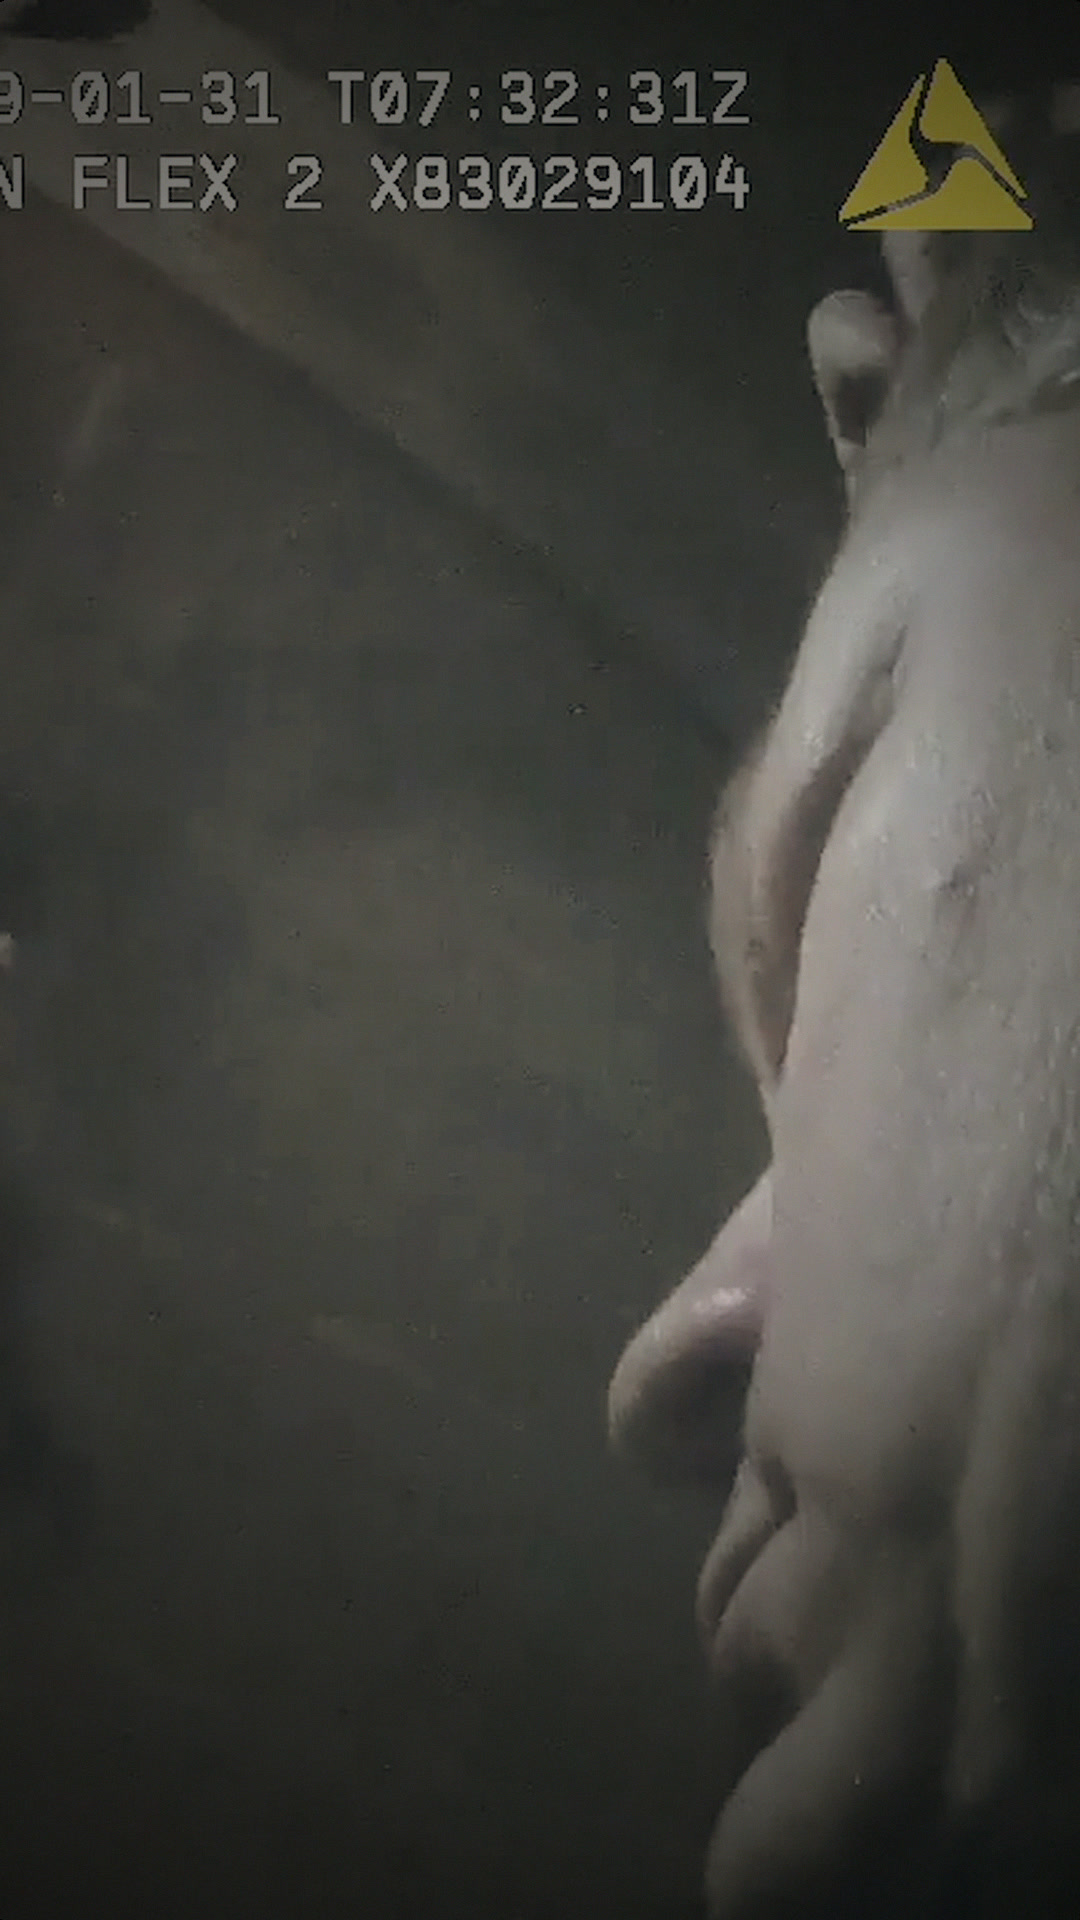
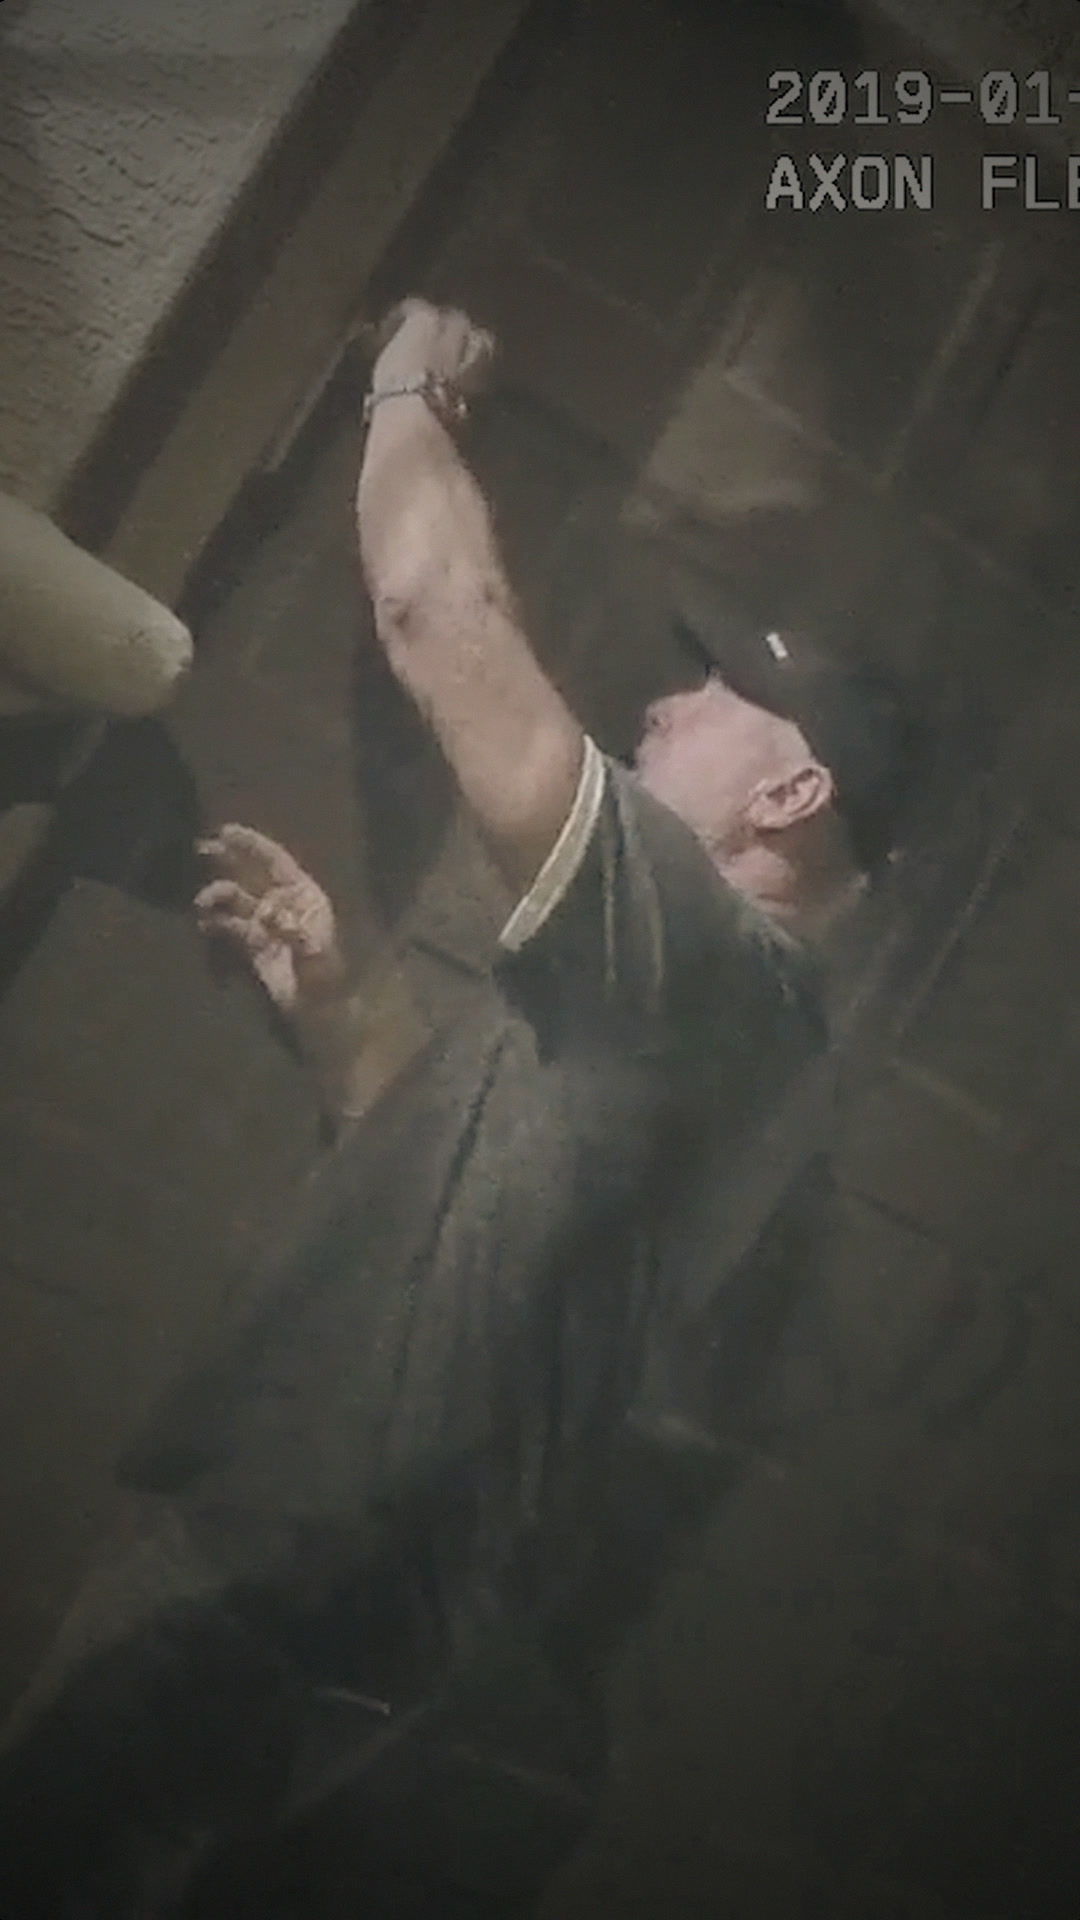
Episode 1: re-aim night bodycam crop, lift mix to reference loudness
Claude-Session: https://claude.ai/code/session_012oYdN2w13XS3aJvvwALdLV

diff --git a/ep1/index.html b/ep1/index.html
@@ -143,7 +143,7 @@ html, body { width: 1080px; height: 1920px; overflow: hidden; background: var(--
 <div id="s19-frame" class="clip ovl" data-start="73.40" data-duration="3.90" data-track-index="5"><div class="inset-frame"></div></div>
 <div id="s19-tag" class="clip ovl" data-start="73.65" data-duration="3.65" data-track-index="6"><div class="srctag"><span class="srctag-box">POLICE INTERVIEW</span><span class="srctag-sub">CHANDLER POLICE · 2019</span></div></div>
 <div id="s20-w" class="shotw">
-<video id="s20" class="clip media" src="assets/video/real_charles_night_c.mp4" data-start="77.30" data-duration="3.60" data-media-start="2.0" data-playback-rate="1.0" data-track-index="2"  muted playsinline></video>
+<video id="s20" class="clip media" src="assets/video/real_charles_night_c.mp4" data-start="77.30" data-duration="3.60" data-media-start="0.8" data-playback-rate="1.0" data-track-index="2"  muted playsinline></video>
 </div>
 <div id="s20-tag" class="clip ovl" data-start="77.55" data-duration="3.35" data-track-index="6"><div class="srctag"><span class="srctag-box">BODYCAM</span><span class="srctag-sub">CHANDLER POLICE · JAN 31, 2019</span></div></div>
 <div id="s21-w" class="shotw">
@@ -234,43 +234,43 @@ html, body { width: 1080px; height: 1920px; overflow: hidden; background: var(--
   </div>
 </div>
 <audio id="vo" src="assets/audio/vo.wav" data-start="0" data-duration="154.8" data-track-index="20" data-volume="1"></audio>
-<audio id="music" src="assets/audio/music.wav" data-start="0" data-duration="155.00" data-track-index="21" data-volume="1" data-automation='{"version":1,"lanes":[{"target":"volume","points":[{"t":0.0,"v":0.0},{"t":0.6,"v":0.8},{"t":14.0,"v":0.8},{"t":17.5,"v":0.11},{"t":131.0,"v":0.11},{"t":131.4,"v":0.17},{"t":133.9,"v":0.17},{"t":134.3,"v":0.11},{"t":148.4,"v":0.11},{"t":149.2,"v":0.2},{"t":150.4,"v":0.2},{"t":150.5,"v":0.13},{"t":154.7,"v":0.0}]}]}'></audio>
-<audio id="x_title" src="assets/sfx/impact-bass-1.mp3" data-start="0.250" data-duration="2.116" data-track-index="30" data-volume="0.188"></audio>
-<audio id="x_wh1" src="assets/sfx/whoosh-short.mp3" data-start="4.390" data-duration="0.575" data-track-index="31" data-volume="0.324"></audio>
-<audio id="x_turn" src="assets/sfx/impact-bass-2.mp3" data-start="30.120" data-duration="2.592" data-track-index="32" data-volume="0.2"></audio>
-<audio id="x_lori" src="assets/sfx/impact-bass-1.mp3" data-start="44.600" data-duration="2.116" data-track-index="33" data-volume="0.133"></audio>
-<audio id="x_paper1" src="assets/sfx/paper.wav" data-start="48.850" data-duration="0.900" data-track-index="34" data-volume="0.275"></audio>
-<audio id="x_mk1" src="assets/sfx/marker.wav" data-start="50.350" data-duration="0.550" data-track-index="35" data-volume="0.141"></audio>
-<audio id="x_mk2" src="assets/sfx/marker.wav" data-start="53.750" data-duration="0.550" data-track-index="36" data-volume="0.141"></audio>
-<audio id="x_mk3" src="assets/sfx/marker.wav" data-start="57.850" data-duration="0.550" data-track-index="37" data-volume="0.141"></audio>
-<audio id="x_end" src="assets/sfx/whoosh-cinematic.mp3" data-start="57.190" data-duration="5.544" data-track-index="38" data-volume="0.359"></audio>
-<audio id="x_wh2" src="assets/sfx/whoosh-short.mp3" data-start="64.740" data-duration="0.575" data-track-index="39" data-volume="0.288"></audio>
-<audio id="x_paper2" src="assets/sfx/paper.wav" data-start="67.750" data-duration="0.900" data-track-index="40" data-volume="0.245"></audio>
-<audio id="x_mk4" src="assets/sfx/marker.wav" data-start="68.700" data-duration="0.550" data-track-index="41" data-volume="0.141"></audio>
-<audio id="x_mk5" src="assets/sfx/marker.wav" data-start="71.050" data-duration="0.550" data-track-index="42" data-volume="0.141"></audio>
-<audio id="x_swell" src="assets/sfx/whoosh-cinematic.mp3" data-start="74.390" data-duration="5.544" data-track-index="43" data-volume="0.32"></audio>
-<audio id="x_notch" src="assets/sfx/impact-bass-1.mp3" data-start="77.200" data-duration="2.116" data-track-index="44" data-volume="0.188"></audio>
-<audio id="x_glitch" src="assets/sfx/glitch-3.mp3" data-start="84.250" data-duration="3.096" data-track-index="45" data-volume="0.519"></audio>
-<audio id="x_hb1" src="assets/sfx/heartbeat.wav" data-start="85.100" data-duration="1.200" data-track-index="46" data-volume="0.495"></audio>
-<audio id="x_hb2" src="assets/sfx/heartbeat.wav" data-start="86.300" data-duration="1.200" data-track-index="47" data-volume="0.442"></audio>
-<audio id="x_face" src="assets/sfx/impact-bass-2.mp3" data-start="87.230" data-duration="2.592" data-track-index="48" data-volume="0.106"></audio>
-<audio id="x_paper3" src="assets/sfx/paper.wav" data-start="90.300" data-duration="0.900" data-track-index="49" data-volume="0.245"></audio>
-<audio id="x_mk6" src="assets/sfx/marker.wav" data-start="92.350" data-duration="0.550" data-track-index="50" data-volume="0.141"></audio>
-<audio id="x_mk7" src="assets/sfx/marker.wav" data-start="93.100" data-duration="0.550" data-track-index="51" data-volume="0.141"></audio>
-<audio id="x_wh3" src="assets/sfx/whoosh-short.mp3" data-start="94.740" data-duration="0.575" data-track-index="52" data-volume="0.288"></audio>
-<audio id="x_siren" src="assets/sfx/siren_distant.wav" data-start="111.950" data-duration="7.000" data-track-index="53" data-volume="0.076"></audio>
-<audio id="x_radio" src="assets/sfx/radio_squelch.wav" data-start="112.350" data-duration="0.600" data-track-index="54" data-volume="0.155"></audio>
-<audio id="x_divorce" src="assets/sfx/impact-bass-1.mp3" data-start="116.620" data-duration="2.116" data-track-index="55" data-volume="0.133"></audio>
-<audio id="x_paper4" src="assets/sfx/paper.wav" data-start="119.450" data-duration="0.900" data-track-index="56" data-volume="0.245"></audio>
-<audio id="x_pen" src="assets/sfx/pen_writing.wav" data-start="122.700" data-duration="3.400" data-track-index="57" data-volume="0.188"></audio>
-<audio id="x_kill" src="assets/sfx/impact-bass-2.mp3" data-start="124.510" data-duration="2.592" data-track-index="58" data-volume="0.2"></audio>
-<audio id="x_mk8" src="assets/sfx/marker.wav" data-start="126.600" data-duration="0.550" data-track-index="59" data-volume="0.141"></audio>
-<audio id="x_mk9" src="assets/sfx/marker.wav" data-start="128.500" data-duration="0.550" data-track-index="60" data-volume="0.141"></audio>
-<audio id="x_hb3" src="assets/sfx/heartbeat.wav" data-start="132.150" data-duration="1.200" data-track-index="61" data-volume="0.556"></audio>
-<audio id="x_hb4" src="assets/sfx/heartbeat.wav" data-start="133.350" data-duration="1.200" data-track-index="62" data-volume="0.495"></audio>
-<audio id="x_wh4" src="assets/sfx/whoosh-short.mp3" data-start="136.240" data-duration="0.575" data-track-index="63" data-volume="0.288"></audio>
-<audio id="x_black" src="assets/sfx/impact-bass-2.mp3" data-start="148.570" data-duration="2.592" data-track-index="64" data-volume="0.237"></audio>
-<audio id="x_sub" src="assets/sfx/sub_drop.wav" data-start="150.400" data-duration="3.000" data-track-index="65" data-volume="0.513"></audio>
+<audio id="music" src="assets/audio/music.wav" data-start="0" data-duration="155.00" data-track-index="21" data-volume="1" data-automation='{"version":1,"lanes":[{"target":"volume","points":[{"t":0.0,"v":0.0},{"t":0.6,"v":1.0},{"t":14.0,"v":1.0},{"t":17.5,"v":0.139},{"t":131.0,"v":0.139},{"t":131.4,"v":0.214},{"t":133.9,"v":0.214},{"t":134.3,"v":0.139},{"t":148.4,"v":0.139},{"t":149.2,"v":0.252},{"t":150.4,"v":0.252},{"t":150.5,"v":0.164},{"t":154.7,"v":0.0}]}]}'></audio>
+<audio id="x_title" src="assets/sfx/impact-bass-1.mp3" data-start="0.250" data-duration="2.116" data-track-index="30" data-volume="0.237"></audio>
+<audio id="x_wh1" src="assets/sfx/whoosh-short.mp3" data-start="4.390" data-duration="0.575" data-track-index="31" data-volume="0.407"></audio>
+<audio id="x_turn" src="assets/sfx/impact-bass-2.mp3" data-start="30.120" data-duration="2.592" data-track-index="32" data-volume="0.251"></audio>
+<audio id="x_lori" src="assets/sfx/impact-bass-1.mp3" data-start="44.600" data-duration="2.116" data-track-index="33" data-volume="0.168"></audio>
+<audio id="x_paper1" src="assets/sfx/paper.wav" data-start="48.850" data-duration="0.900" data-track-index="34" data-volume="0.347"></audio>
+<audio id="x_mk1" src="assets/sfx/marker.wav" data-start="50.350" data-duration="0.550" data-track-index="35" data-volume="0.178"></audio>
+<audio id="x_mk2" src="assets/sfx/marker.wav" data-start="53.750" data-duration="0.550" data-track-index="36" data-volume="0.178"></audio>
+<audio id="x_mk3" src="assets/sfx/marker.wav" data-start="57.850" data-duration="0.550" data-track-index="37" data-volume="0.178"></audio>
+<audio id="x_end" src="assets/sfx/whoosh-cinematic.mp3" data-start="57.190" data-duration="5.544" data-track-index="38" data-volume="0.452"></audio>
+<audio id="x_wh2" src="assets/sfx/whoosh-short.mp3" data-start="64.740" data-duration="0.575" data-track-index="39" data-volume="0.363"></audio>
+<audio id="x_paper2" src="assets/sfx/paper.wav" data-start="67.750" data-duration="0.900" data-track-index="40" data-volume="0.309"></audio>
+<audio id="x_mk4" src="assets/sfx/marker.wav" data-start="68.700" data-duration="0.550" data-track-index="41" data-volume="0.178"></audio>
+<audio id="x_mk5" src="assets/sfx/marker.wav" data-start="71.050" data-duration="0.550" data-track-index="42" data-volume="0.178"></audio>
+<audio id="x_swell" src="assets/sfx/whoosh-cinematic.mp3" data-start="74.390" data-duration="5.544" data-track-index="43" data-volume="0.403"></audio>
+<audio id="x_notch" src="assets/sfx/impact-bass-1.mp3" data-start="77.200" data-duration="2.116" data-track-index="44" data-volume="0.237"></audio>
+<audio id="x_glitch" src="assets/sfx/glitch-3.mp3" data-start="84.250" data-duration="3.096" data-track-index="45" data-volume="0.653"></audio>
+<audio id="x_hb1" src="assets/sfx/heartbeat.wav" data-start="85.100" data-duration="1.200" data-track-index="46" data-volume="0.624"></audio>
+<audio id="x_hb2" src="assets/sfx/heartbeat.wav" data-start="86.300" data-duration="1.200" data-track-index="47" data-volume="0.556"></audio>
+<audio id="x_face" src="assets/sfx/impact-bass-2.mp3" data-start="87.230" data-duration="2.592" data-track-index="48" data-volume="0.133"></audio>
+<audio id="x_paper3" src="assets/sfx/paper.wav" data-start="90.300" data-duration="0.900" data-track-index="49" data-volume="0.309"></audio>
+<audio id="x_mk6" src="assets/sfx/marker.wav" data-start="92.350" data-duration="0.550" data-track-index="50" data-volume="0.178"></audio>
+<audio id="x_mk7" src="assets/sfx/marker.wav" data-start="93.100" data-duration="0.550" data-track-index="51" data-volume="0.178"></audio>
+<audio id="x_wh3" src="assets/sfx/whoosh-short.mp3" data-start="94.740" data-duration="0.575" data-track-index="52" data-volume="0.363"></audio>
+<audio id="x_siren" src="assets/sfx/siren_distant.wav" data-start="111.950" data-duration="7.000" data-track-index="53" data-volume="0.095"></audio>
+<audio id="x_radio" src="assets/sfx/radio_squelch.wav" data-start="112.350" data-duration="0.600" data-track-index="54" data-volume="0.195"></audio>
+<audio id="x_divorce" src="assets/sfx/impact-bass-1.mp3" data-start="116.620" data-duration="2.116" data-track-index="55" data-volume="0.168"></audio>
+<audio id="x_paper4" src="assets/sfx/paper.wav" data-start="119.450" data-duration="0.900" data-track-index="56" data-volume="0.309"></audio>
+<audio id="x_pen" src="assets/sfx/pen_writing.wav" data-start="122.700" data-duration="3.400" data-track-index="57" data-volume="0.237"></audio>
+<audio id="x_kill" src="assets/sfx/impact-bass-2.mp3" data-start="124.510" data-duration="2.592" data-track-index="58" data-volume="0.251"></audio>
+<audio id="x_mk8" src="assets/sfx/marker.wav" data-start="126.600" data-duration="0.550" data-track-index="59" data-volume="0.178"></audio>
+<audio id="x_mk9" src="assets/sfx/marker.wav" data-start="128.500" data-duration="0.550" data-track-index="60" data-volume="0.178"></audio>
+<audio id="x_hb3" src="assets/sfx/heartbeat.wav" data-start="132.150" data-duration="1.200" data-track-index="61" data-volume="0.7"></audio>
+<audio id="x_hb4" src="assets/sfx/heartbeat.wav" data-start="133.350" data-duration="1.200" data-track-index="62" data-volume="0.624"></audio>
+<audio id="x_wh4" src="assets/sfx/whoosh-short.mp3" data-start="136.240" data-duration="0.575" data-track-index="63" data-volume="0.363"></audio>
+<audio id="x_black" src="assets/sfx/impact-bass-2.mp3" data-start="148.570" data-duration="2.592" data-track-index="64" data-volume="0.299"></audio>
+<audio id="x_sub" src="assets/sfx/sub_drop.wav" data-start="150.400" data-duration="3.000" data-track-index="65" data-volume="0.646"></audio>
 </div>
 <script>
 const tl = gsap.timeline({ paused: true });

diff --git a/ep1/prep/prep_assets.py b/ep1/prep/prep_assets.py
@@ -106,7 +106,7 @@ REAL = {
     "real_charles_day.mp4": (DRAFT, 135.0, 136.0, "scale=1080:1920:flags=lanczos", "base"),
     "real_charles_night_a.mp4": (V("03_charles_locked_out.mp4"), 39.0, 45.0, bodycam(500), "night"),
     "real_charles_night_b.mp4": (V("03_charles_locked_out.mp4"), 89.0, 93.0, bodycam(520), "night"),
-    "real_charles_night_c.mp4": (V("03_charles_locked_out.mp4"), 624.5, 632.0, bodycam(860), "night"),
+    "real_charles_night_c.mp4": (V("03_charles_locked_out.mp4"), 631.5, 637.0, bodycam(520), "night"),
     "real_bodycam_walk.mp4": (V("03_charles_locked_out.mp4"), 7.5, 12.5, bodycam(430), "night"),
     # Chandler PD interview, 2019-07-11: tight 9:16 crop on Lori, and full 16:9 frame for inset cards
     "real_lori_int_a.mp4": (V("05_lori_interview.mp4"), 1194.5, 1199.5, bodycam(200, 300, 187, 533), "interview"),
@@ -126,7 +126,7 @@ def video():
         clip(V("05_lori_interview.mp4"), t0, t1, n, "scale=-2:1920,crop=1080:1920", "bgblur")
     still(DRAFT, 135.7, "charles_day_face.jpg")
     still(DRAFT, 90.1, "ai_mirror_charles.jpg", g="ai")
-    still(V("03_charles_locked_out.mp4"), 628.4, "charles_night_face.jpg", bodycam(860), "night")
+    still(V("03_charles_locked_out.mp4"), 634.2, "charles_night_face.jpg", bodycam(520), "night")
 
 
 def images():
@@ -153,14 +153,14 @@ def audio():
     # references (-15 LUFS) once music and SFX sit under it.
     vo = os.path.join(SRC, "audio", "vo_main.mp3")
     out = subprocess.run(
-        ["ffmpeg", "-hide_banner", "-i", vo, "-af", "loudnorm=I=-16:TP=-1.5:LRA=7:print_format=json", "-f", "null", "-"],
+        ["ffmpeg", "-hide_banner", "-i", vo, "-af", "loudnorm=I=-14:TP=-1.2:LRA=7:print_format=json", "-f", "null", "-"],
         capture_output=True, text=True,
     ).stderr
     import json
 
     j = json.loads(out[out.rindex("{") : out.rindex("}") + 1])
     ln = (
-        f"loudnorm=I=-16:TP=-1.5:LRA=7:measured_I={j['input_i']}:measured_TP={j['input_tp']}:"
+        f"loudnorm=I=-14:TP=-1.2:LRA=7:measured_I={j['input_i']}:measured_TP={j['input_tp']}:"
         f"measured_LRA={j['input_lra']}:measured_thresh={j['input_thresh']}:offset={j['target_offset']}:linear=true"
     )
     ff("-i", vo, "-vn", "-af", ln, "-ar", "48000", "-ac", "2", os.path.join(A, "audio", "vo.wav"))

diff --git a/ep1/build.py b/ep1/build.py
@@ -93,7 +93,7 @@ SHOTS = [
     dict(id="s19", kind="inset", t=73.40, d=3.90, src="real_lori_int_wide.mp4", ms=0.5, rate=1.0, g="interview",
          tag=("POLICE INTERVIEW", "CHANDLER POLICE · 2019")),
     # --- "he is not Charles anymore"
-    dict(id="s20", kind="video", t=77.30, d=3.60, src="real_charles_night_c.mp4", ms=2.0, rate=1.0, g="night", kb=(1.0, 1.08, 0, 0),
+    dict(id="s20", kind="video", t=77.30, d=3.60, src="real_charles_night_c.mp4", ms=0.8, rate=1.0, g="night", kb=(1.0, 1.08, 0, 0),
          tag=("BODYCAM", "CHANDLER POLICE · JAN 31, 2019")),
     dict(id="s21", kind="video", t=80.90, d=3.30, src="ai_house_back_b.mp4", ms=0.0, rate=0.73, g="day", kb=(1.08, 1.0, 0, 0), ai=True,
          veil=0.5),
@@ -149,8 +149,11 @@ SFX_LUFS = {"impact-bass-1.mp3": -6.5, "impact-bass-2.mp3": -4.5, "whoosh-cinema
             "radio_squelch.wav": -9.8, "siren_distant.wav": -8.6, "sub_drop.wav": -15.2}
 
 
+MIX_LIFT = 2.0  # dB: VO is normalised to -14 LUFS; every SFX target rides up with it
+
+
 def vol(f, target_lufs):
-    return round(min(1.0, 10 ** ((target_lufs - SFX_LUFS[f]) / 20)), 3)
+    return round(min(1.0, 10 ** ((target_lufs + MIX_LIFT - SFX_LUFS[f]) / 20)), 3)
 
 
 def fx(aid, f, start, target):
@@ -200,9 +203,9 @@ SFX = [
 # music: producer's bed. Its first ~16s are ~15 dB quieter than the body, so the lane lifts the
 # intro, then holds ~18-20 dB under the VO, breathes up in the two long pauses and carries the ending.
 MUSIC_LANE = [
-    (0.0, 0.0), (0.6, 0.8), (14.0, 0.8), (17.5, 0.11),
-    (131.0, 0.11), (131.4, 0.17), (133.9, 0.17), (134.3, 0.11),
-    (148.4, 0.11), (149.2, 0.2), (CUT_TO_BLACK, 0.2), (CUT_TO_BLACK + 0.1, 0.13), (DUR - 0.3, 0.0),
+    (0.0, 0.0), (0.6, 1.0), (14.0, 1.0), (17.5, 0.139),
+    (131.0, 0.139), (131.4, 0.214), (133.9, 0.214), (134.3, 0.139),
+    (148.4, 0.139), (149.2, 0.252), (CUT_TO_BLACK, 0.252), (CUT_TO_BLACK + 0.1, 0.164), (DUR - 0.3, 0.0),
 ]
 
 
